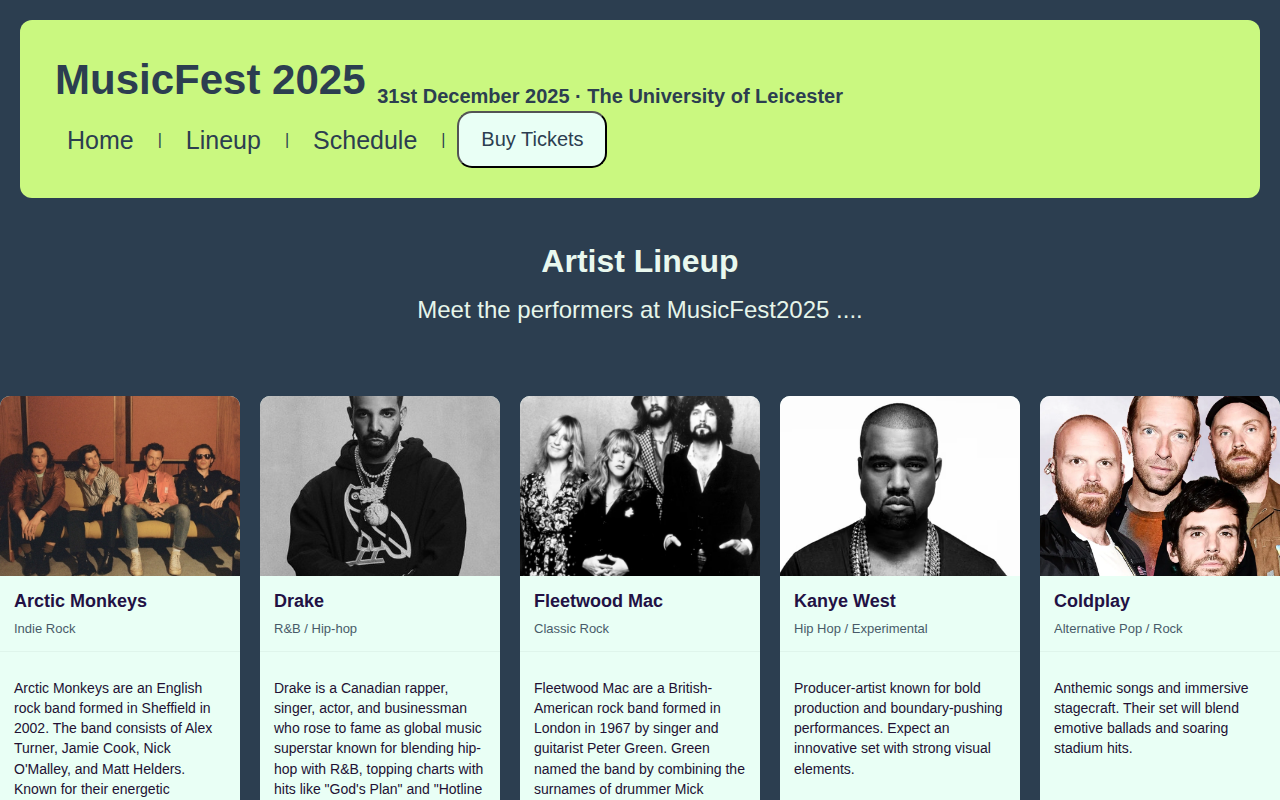
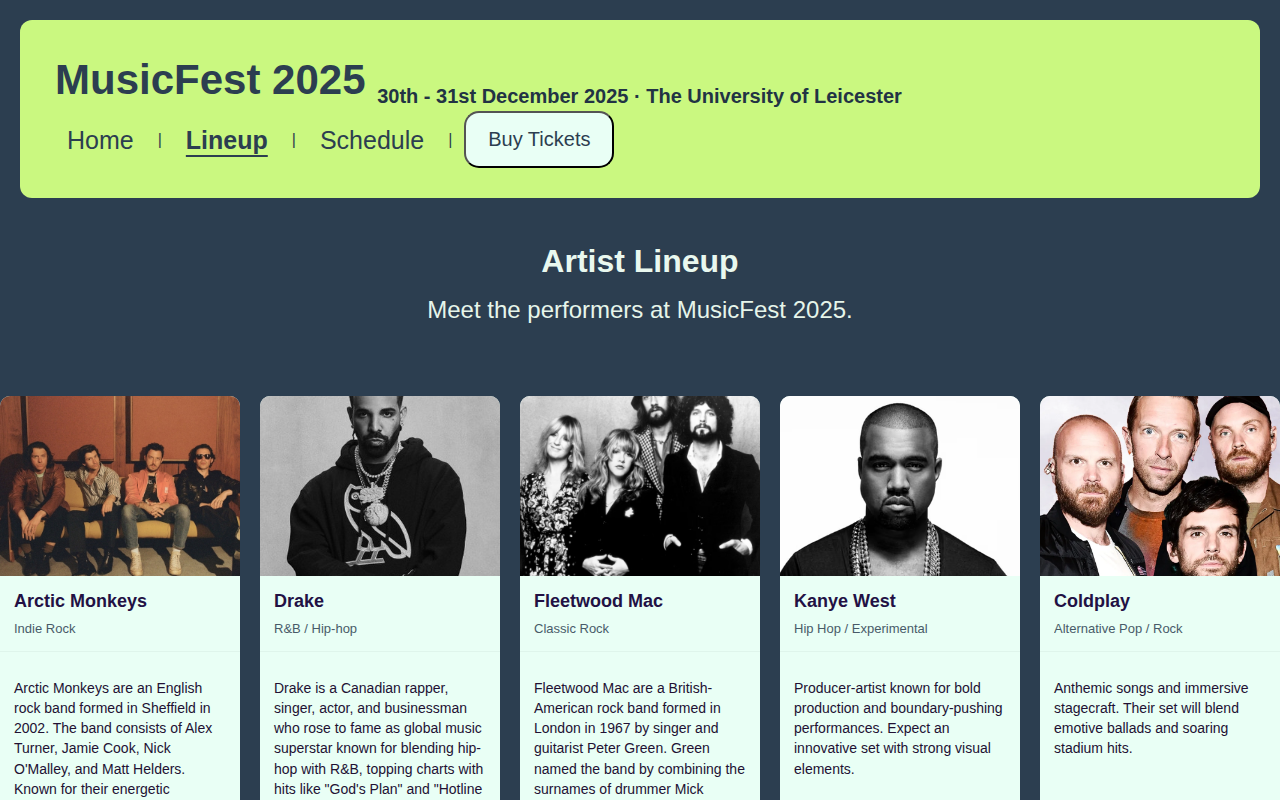
Fix layout and HTML bugs, add mobile layout and HTML validation CI
- Schedule: Day 1 rows used a non-standard day attribute, so the Day 1
  filter hid every row; switch them to data-day like Day 2.
- Home: close the unclosed gallery div, replace the invalid <p2> tag,
  add a title to the map iframe, and stop fixed heights clipping text.
- Fix page overflow on desktop and add a small-screen layout so no page
  scrolls sideways on a phone; centre the tickets form properly.
- Consistent festival dates in every header, typo fixes, meta
  descriptions, and the current page marked in the navigation.
- Validate all pages with html-validate on every PR, add an MIT
  license, and expand the README with features and CI badges.

Claude-Session: https://claude.ai/code/session_01V3iaeuVVsA6t8skcXsdDgs

Changed region(s): [[0.1562, 0.0938, 0.7188, 0.2188], [0.3125, 0.375, 0.6562, 0.4062]]

diff --git a/Website/index.html b/Website/index.html
@@ -3,6 +3,7 @@
 <head>
     <meta charset="UTF-8">
     <meta name="viewport" content="width=device-width, initial-scale=1">
+    <meta name="description" content="MusicFest 2025: two days of live music at the University of Leicester, 30th - 31st December 2025.">
     <title> MusicFest - Home </title>
     <link rel="stylesheet" href="styles.css">
 </head>
@@ -14,7 +15,7 @@
                 <h1 class= "site-title"> MusicFest 2025 <sub class = "sub">30th - 31st December 2025 · The University of Leicester</sub></h1>
                 
                     <nav class = "main-nav">
-                        <a href="index.html"> Home </a> |
+                        <a href="index.html" aria-current="page"> Home </a> |
                         <a href="lineup.html"> Lineup </a> |
                         <a href="schedule.html"> Schedule </a>|
                         <button onclick="location.href='tickets.html'"> Buy Tickets </button>
@@ -53,6 +54,7 @@
                             <div class = "artist">
                                 <img src="images/radiohead.jpg" alt="Radiohead">
                                 <p> Radiohead </p>
+                            </div>
                         </div>
                     </div>
                 </div>
@@ -65,10 +67,10 @@
                         <h3> Festival Overview </h3>
                         <p> MusicFest 2025 is the ultimate celebration of music, bringing together major artists and fans from around the world for an unforgettable experience. Join us for two days of live performances, food, and fun!</p>
                         
-                        <p2> The date of this awesome event is 30th - 31st December 2025 at 7pm - 3am, taking place at The University of Leicester (see the map attached).</p2>
+                        <p> The date of this awesome event is 30th - 31st December 2025 at 7pm - 3am, taking place at The University of Leicester (see the map attached).</p>
                     </div>
                         
-                    <iframe src="https://www.google.com/maps/embed?pb=!1m18!1m12!1m3!1d1179.3588842800425!2d-1.1243527281259456!3d52.62113531505915!2m3!1f0!2f0!3f0!3m2!1i1024!2i768!4f13.1!3m3!1m2!1s0x4877612fa55d947f%3A0xf8da17fed74e0044!2sUniversity%20of%20Leicester!5e0!3m2!1sen!2suk!4v1764608103430!5m2!1sen!2suk" style="border:0;" allowfullscreen="" loading="lazy" referrerpolicy="no-referrer-when-downgrade"></iframe>
+                    <iframe title="Map of the University of Leicester" src="https://www.google.com/maps/embed?pb=!1m18!1m12!1m3!1d1179.3588842800425!2d-1.1243527281259456!3d52.62113531505915!2m3!1f0!2f0!3f0!3m2!1i1024!2i768!4f13.1!3m3!1m2!1s0x4877612fa55d947f%3A0xf8da17fed74e0044!2sUniversity%20of%20Leicester!5e0!3m2!1sen!2suk!4v1764608103430!5m2!1sen!2suk" style="border:0;" allowfullscreen="" loading="lazy" referrerpolicy="no-referrer-when-downgrade"></iframe>
 
                 </div>
             </section>
@@ -77,7 +79,7 @@
                 <div class = "Theme-Container">
                     <div class = "Theme-Text">
                         <h3> Festival Theme </h3>
-                        <p>  Expect a diverse lineup of artists spanning multiple genres, from rock and pop to hip-hop and electronic music. If you asking yourself "What can I wear ?", then heres you answer, to fit the theme of the festival choose any bright and colourful clothing with a funky twist !</p>
+                        <p>  Expect a diverse lineup of artists spanning multiple genres, from rock and pop to hip-hop and electronic music. If you are asking yourself "What can I wear?", here is your answer: to fit the theme of the festival choose any bright and colourful clothing with a funky twist!</p>
                     </div>
                 </div>
             </section> 

diff --git a/Website/styles.css b/Website/styles.css
@@ -1,4 +1,5 @@
 /* ------------- Shared Styles (Across All Pages) -------------- */
+*, *::before, *::after{box-sizing: border-box;}
 html,body{height: 100%;}
 body{
     margin: 0;
@@ -55,7 +56,8 @@ body{
     transition: background 0.18s, transform 0.12s;
 }
 .main-nav a:hover{background:rgba(44,62,80,0.06); transform: translateY(-2px);}
-.main-nav a:active{background:(44,62,80,0.12) ; font-weight: 700;}
+.main-nav a:active{background:rgba(44,62,80,0.12); font-weight: 700;}
+.main-nav a[aria-current="page"]{font-weight: 700; text-decoration: underline; text-underline-offset: 6px;}
 
 .topbar button{
     background-color:#E9FFF5;
@@ -115,7 +117,7 @@ footer{
 .Artists-Container{
     width : 100%;
     max-width: fit-content;
-    height : 910px;
+    min-height : 910px;
     background-color: #E9FFF5;
     margin: 25px ;
     border-radius: 8px;
@@ -150,6 +152,7 @@ footer{
 
 /* All Left Column Styles */
 .left-column{
+    min-width: 0;
     flex:2;
     gap: 20px;
     display: flex;
@@ -157,11 +160,13 @@ footer{
 }
 
 .left-column .Overview-Container, .left-column .Theme-Container, .right-column .Artists-Container{
-    width: 95%;
+    width: auto;
 }
 
 iframe{
-    flex-shrink: 0;
+    max-width: 100%;
+    flex-shrink: 1;
+    min-width: 0;
     padding: 20px;
     height:300px;
     width :300px ;
@@ -170,7 +175,7 @@ iframe{
 .Overview-Container{
     font-family: Arial, sans-serif;
     width : 100%;
-    height : 500px;
+    min-height : 500px;
     background-color: #1ABC9C;
     margin: 25px;
     display: flex;
@@ -192,7 +197,7 @@ iframe{
 .Theme-Container{
     font-family: Arial, sans-serif;
     width : auto;
-    height : 340px;
+    min-height : 340px;
     background-color: #1ABC9C;
     margin: 25px ;
     border-radius: 8px;
@@ -244,8 +249,8 @@ iframe{
 
   .form-section {
     max-width: 760px;
-    margin: 5%;
-    
+    margin: 0 auto 40px;
+    padding: 0 16px;
   }
   form#ticket-form {
     background: #E9FFF5;
@@ -255,7 +260,6 @@ iframe{
     gap: 12px;
     box-shadow: 0 8px 18px rgba(0,0,0,0.06);
     width: 100%;
-    margin-left: 35%;
   }
 
   /*Inputs*/
@@ -338,4 +342,20 @@ iframe{
     border-top: 1px solid rgba(0,0,0,0.06);
     color: #233;
   }
-  
+
+/* Small screens: stack the home page columns (kept last so it overrides the page styles above) */
+@media (max-width: 900px) {
+    .site-title { font-size: 32px; }
+    .site-title .sub { display: block; font-size: 16px; margin-top: 6px; }
+    .main-nav a { font-size: 20px; }
+    .main-layout { flex-direction: column; margin: 12px; }
+    .Artists-Container, .Overview-Container, .Theme-Container { margin: 12px 0; min-height: 0; }
+    .Artists-Container { max-width: none; }
+    .gallery { grid-template-columns: repeat(auto-fit, minmax(130px, 1fr)); gap: 20px; margin-top: 24px; }
+    .artist img { width: 100%; height: auto; aspect-ratio: 1; }
+    .Overview-Container { flex-direction: column; }
+    iframe { width: 100%; }
+    .Theme-Text { margin: 12px; font-size: 20px; }
+    .Artists-Text h3 { font-size: 32px; }
+    .schedule-section { overflow-x: auto; }
+}

diff --git a/Website/tickets.html b/Website/tickets.html
@@ -3,6 +3,7 @@
 <head>
     <meta charset="UTF-8">
     <meta name="viewport" content="width=device-width, initial-scale=1">
+    <meta name="description" content="Book General, VIP or Premium tickets for MusicFest 2025.">
     <title> MusicFest - Tickets </title>
     <link rel="stylesheet" href="styles.css">
 </head>
@@ -11,7 +12,7 @@
 
   <header class = "site-header">
     <div class = "topbar">
-      <h1 class= "site-title"> MusicFest 2025 <sub style="font-size: 20px;">31st December 2025 · The University of Leicester</sub></h1>
+      <h1 class= "site-title"> MusicFest 2025 <sub class = "sub">30th - 31st December 2025 · The University of Leicester</sub></h1>
         <nav class = "main-nav">
             <a href="index.html"> Home </a> |
             <a href="lineup.html"> Lineup </a> |
@@ -24,7 +25,7 @@
   <main>
     <section class ="page-intro">
       <h2> Book Tickets</h2>
-      <p> Select ticket options below to secure your place at MusicFest2025 !</p>
+      <p> Select ticket options below to secure your place at MusicFest 2025!</p>
     </section>
 
     <section class="form-section">
@@ -67,10 +68,10 @@
         <label for="special">Special Requirements (dietary, accessibility)</label>
         <textarea id="special" name="special" rows="4" maxlength="500" placeholder="e.g., wheelchair access, vegetarian meal"></textarea>
 
-        <!-- Terms & Consitions-->
+        <!-- Terms & Conditions -->
         <label class="terms">
           <input id="terms" name="terms" type="checkbox" required />
-          I agree to the <a href="" target="_blank" rel="noopener">Terms & Conditions</a>. <span class="required">*</span>
+          I agree to the Terms &amp; Conditions. <span class="required">*</span>
         </label>
           
         <!-- Validation messages -->

diff --git a/Website/schedule.html b/Website/schedule.html
@@ -3,6 +3,7 @@
 <head>
   <meta charset="UTF-8">
   <meta name="viewport" content="width=device-width, initial-scale=1">
+    <meta name="description" content="Performance times and stages for both days of MusicFest 2025.">
   <title> MusicFest - Schedule </title>
   <link rel="stylesheet" href="styles.css">
 </head>
@@ -10,11 +11,11 @@
 <body>
   <header class = "site-header">
     <div class = "topbar">
-      <h1 class= "site-title"> MusicFest 2025 <sub style="font-size: 20px;">31st December 2025 · The University of Leicester</sub></h1>
+      <h1 class= "site-title"> MusicFest 2025 <sub class = "sub">30th - 31st December 2025 · The University of Leicester</sub></h1>
       <nav class = "main-nav">
         <a href="index.html"> Home </a> |
         <a href="lineup.html"> Lineup </a> |
-        <a href="schedule.html"> Schedule </a>|
+        <a href="schedule.html" aria-current="page"> Schedule </a>|
         <button onclick="location.href='tickets.html'"> Buy Tickets </button>
       </nav>
     </div>
@@ -46,19 +47,19 @@
 
         <tbody>
           <!-- Day 1 Performing Artists -->
-          <tr day ="day1">
+          <tr data-day="day1">
             <td>18:00 - 18:45</td>
             <td>Local Support Band</td>
             <td>Main Stage</td>
             <td>Day 1</td>
           </tr>
-          <tr day ="day1">
+          <tr data-day="day1">
             <td>19:00 - 19:45</td>
             <td>Arctic Monkeys</td>
             <td>Main Stage</td>
             <td>Day 1</td>
           </tr>
-          <tr day ="day1">
+          <tr data-day="day1">
             <td>20:00 - 20:45</td>
             <td>Radiohead</td>
             <td>Secondary Stage</td>

diff --git a/Website/lineup.html b/Website/lineup.html
@@ -3,6 +3,7 @@
 <head>
     <meta charset="UTF-8">
     <meta name="viewport" content="width=device-width, initial-scale=1">
+    <meta name="description" content="Meet the artists performing at MusicFest 2025.">
     <title> MusicFest - Lineup </title>
     <link rel="stylesheet" href="styles.css">
 </head>
@@ -10,10 +11,10 @@
 <body>
     <header class = "site-header">
         <div class = "topbar">
-            <h1 class= "site-title"> MusicFest 2025 <sub style="font-size: 20px;">31st December 2025 · The University of Leicester</sub></h1>
+            <h1 class= "site-title"> MusicFest 2025 <sub class = "sub">30th - 31st December 2025 · The University of Leicester</sub></h1>
             <nav class = "main-nav">
                 <a href="index.html"> Home </a> |
-                <a href="lineup.html"> Lineup </a> |
+                <a href="lineup.html" aria-current="page"> Lineup </a> |
                 <a href="schedule.html"> Schedule </a>|
                 <button onclick="location.href='tickets.html'"> Buy Tickets </button>
             </nav>
@@ -23,7 +24,7 @@
     <main>
         <section class ="page-intro">
             <h2> Artist Lineup</h2>
-            <p> Meet the performers at MusicFest2025 .... </p>
+            <p> Meet the performers at MusicFest 2025. </p>
         </section>
 
         <section class = "lineup-grid">

diff --git a/README.md b/README.md
@@ -1,5 +1,8 @@
 # MusicFest 2025 · University Website Project
 
+[![Deploy](https://github.com/h3nry2199/University-Website-Project/actions/workflows/pages.yml/badge.svg)](https://github.com/h3nry2199/University-Website-Project/actions/workflows/pages.yml)
+[![Validate HTML](https://github.com/h3nry2199/University-Website-Project/actions/workflows/validate.yml/badge.svg)](https://github.com/h3nry2199/University-Website-Project/actions/workflows/validate.yml)
+
 A multi-page festival website built with plain HTML, CSS and JavaScript for my university web development module.
 
 **Live site:** https://h3nry2199.github.io/University-Website-Project/
@@ -19,6 +22,14 @@ A multi-page festival website built with plain HTML, CSS and JavaScript for my u
 | --- | --- | --- |
 | ![Lineup page](docs/screenshots/lineup.png) | ![Schedule page](docs/screenshots/schedule.png) | ![Tickets page](docs/screenshots/tickets.png) |
 
+## Features
+
+- **Responsive layout:** multi-column on desktop, stacking to a single column on phones with no sideways scrolling
+- **Schedule filter:** JavaScript buttons that filter the timetable by day, with ARIA state for screen readers
+- **Ticket form validation:** checks every required field and shows all errors at once in a live region
+- **Accessibility:** semantic landmarks, alt text on every image, labelled form controls and the current page marked in the navigation
+- **Automated checks:** every pull request is validated with [html-validate](https://html-validate.org/), and every push to `main` redeploys the live site
+
 ## Built with
 
 - **HTML5** for page structure
@@ -34,7 +45,7 @@ Website/
 ├── schedule.html   Performance schedule
 ├── tickets.html    Ticket booking form
 ├── styles.css      Shared styles for all pages
-├── script.js       Form validation
+├── script.js       Form validation and schedule filter
 └── images/         Artist photos
 ```
 
@@ -46,4 +57,14 @@ No build step is needed. Open `Website/index.html` in a browser, or serve the fo
 python3 -m http.server -d Website
 ```
 
+To run the same HTML checks as CI:
+
+```bash
+npx html-validate Website/*.html
+```
+
 The site deploys to GitHub Pages automatically on every push to `main` via [`.github/workflows/pages.yml`](.github/workflows/pages.yml).
+
+## License
+
+The code is released under the [MIT License](LICENSE). Artist photos are used for educational purposes only and remain the property of their respective owners.
